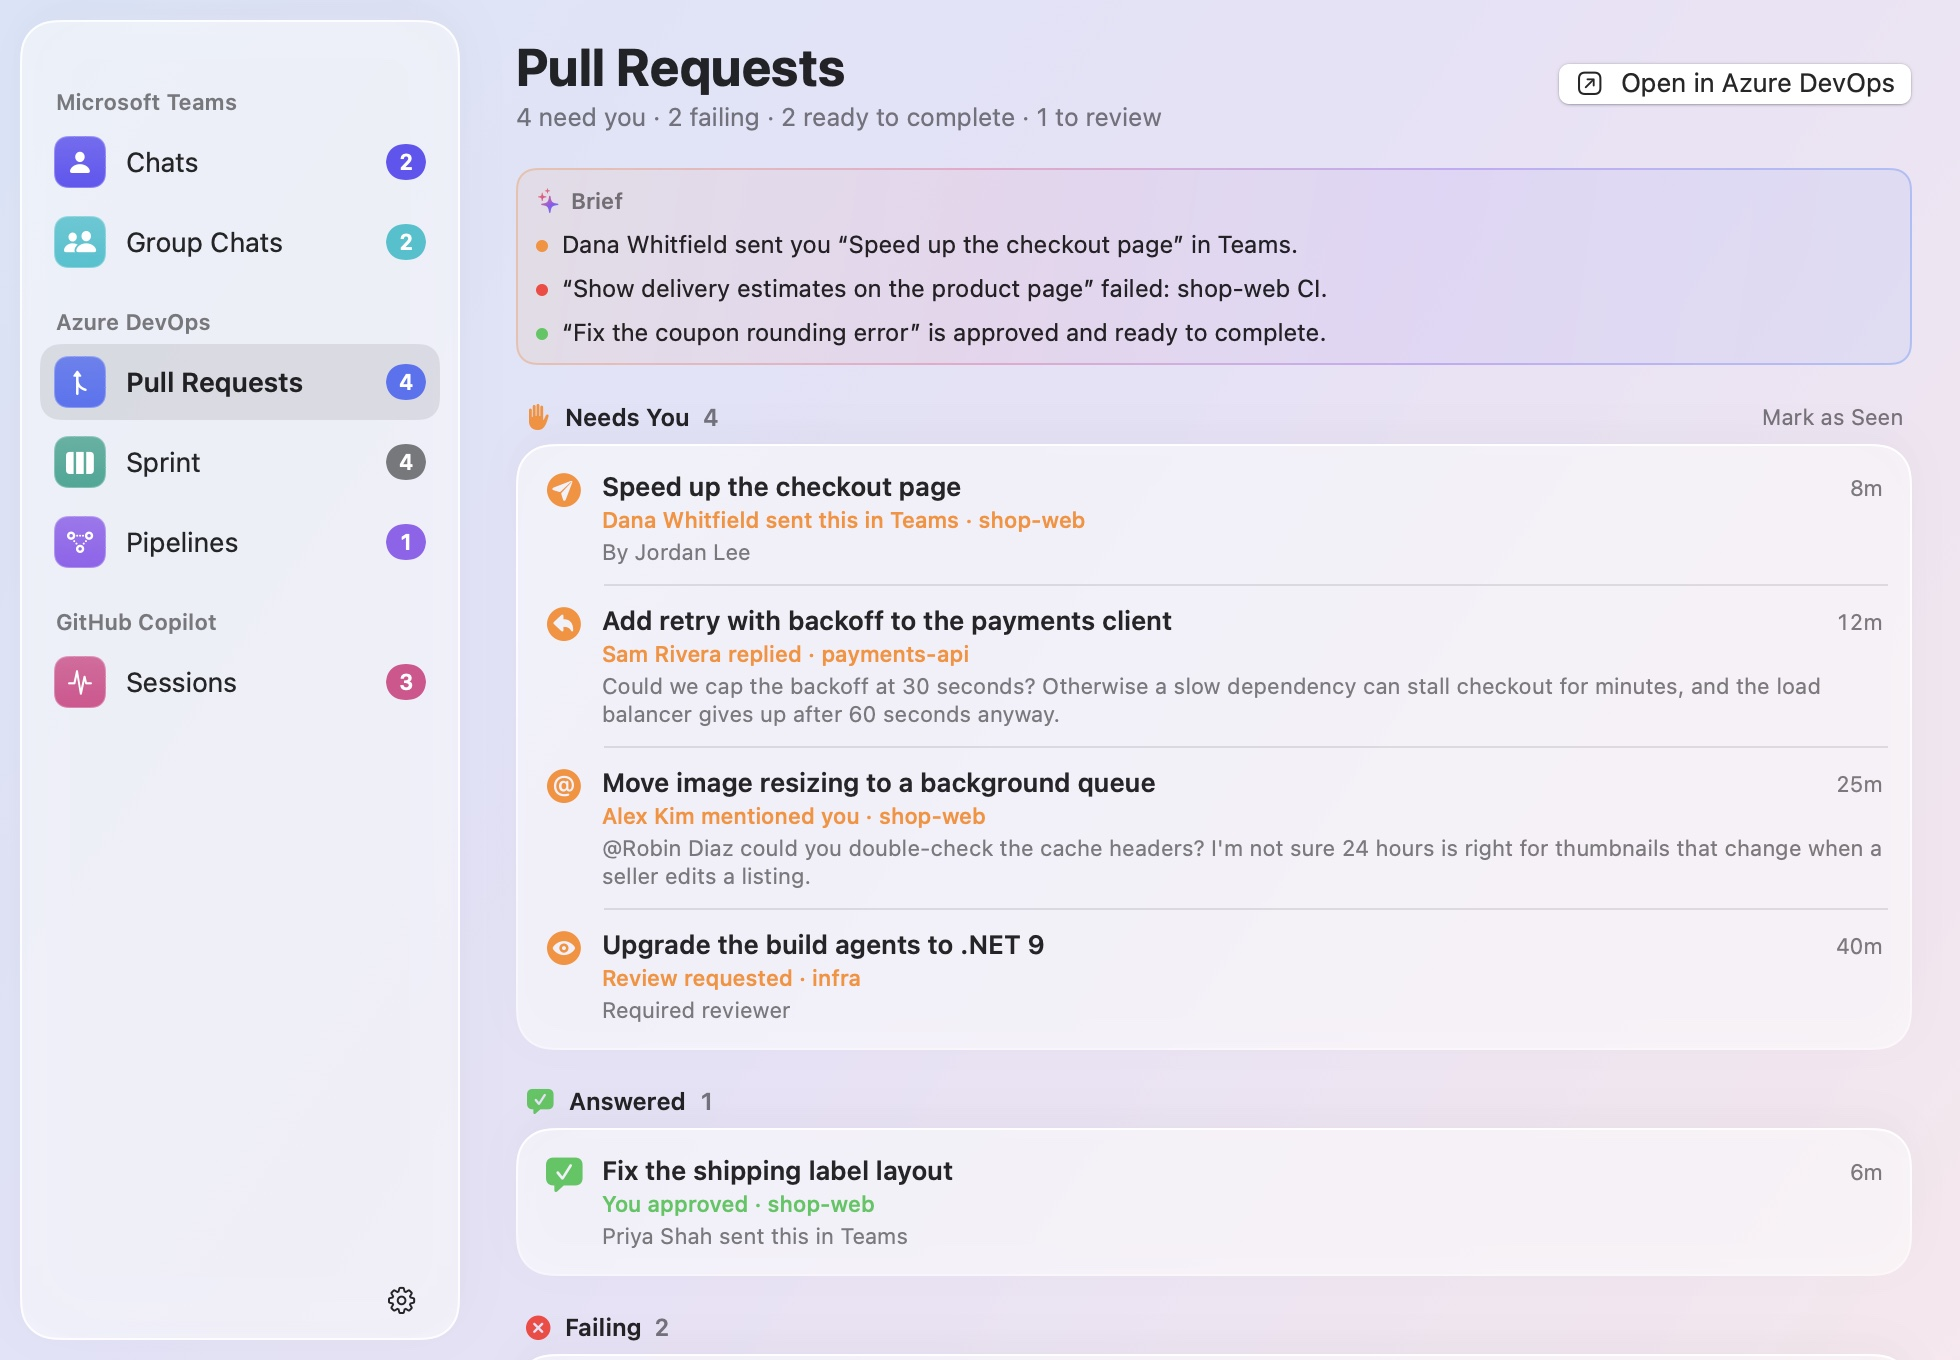
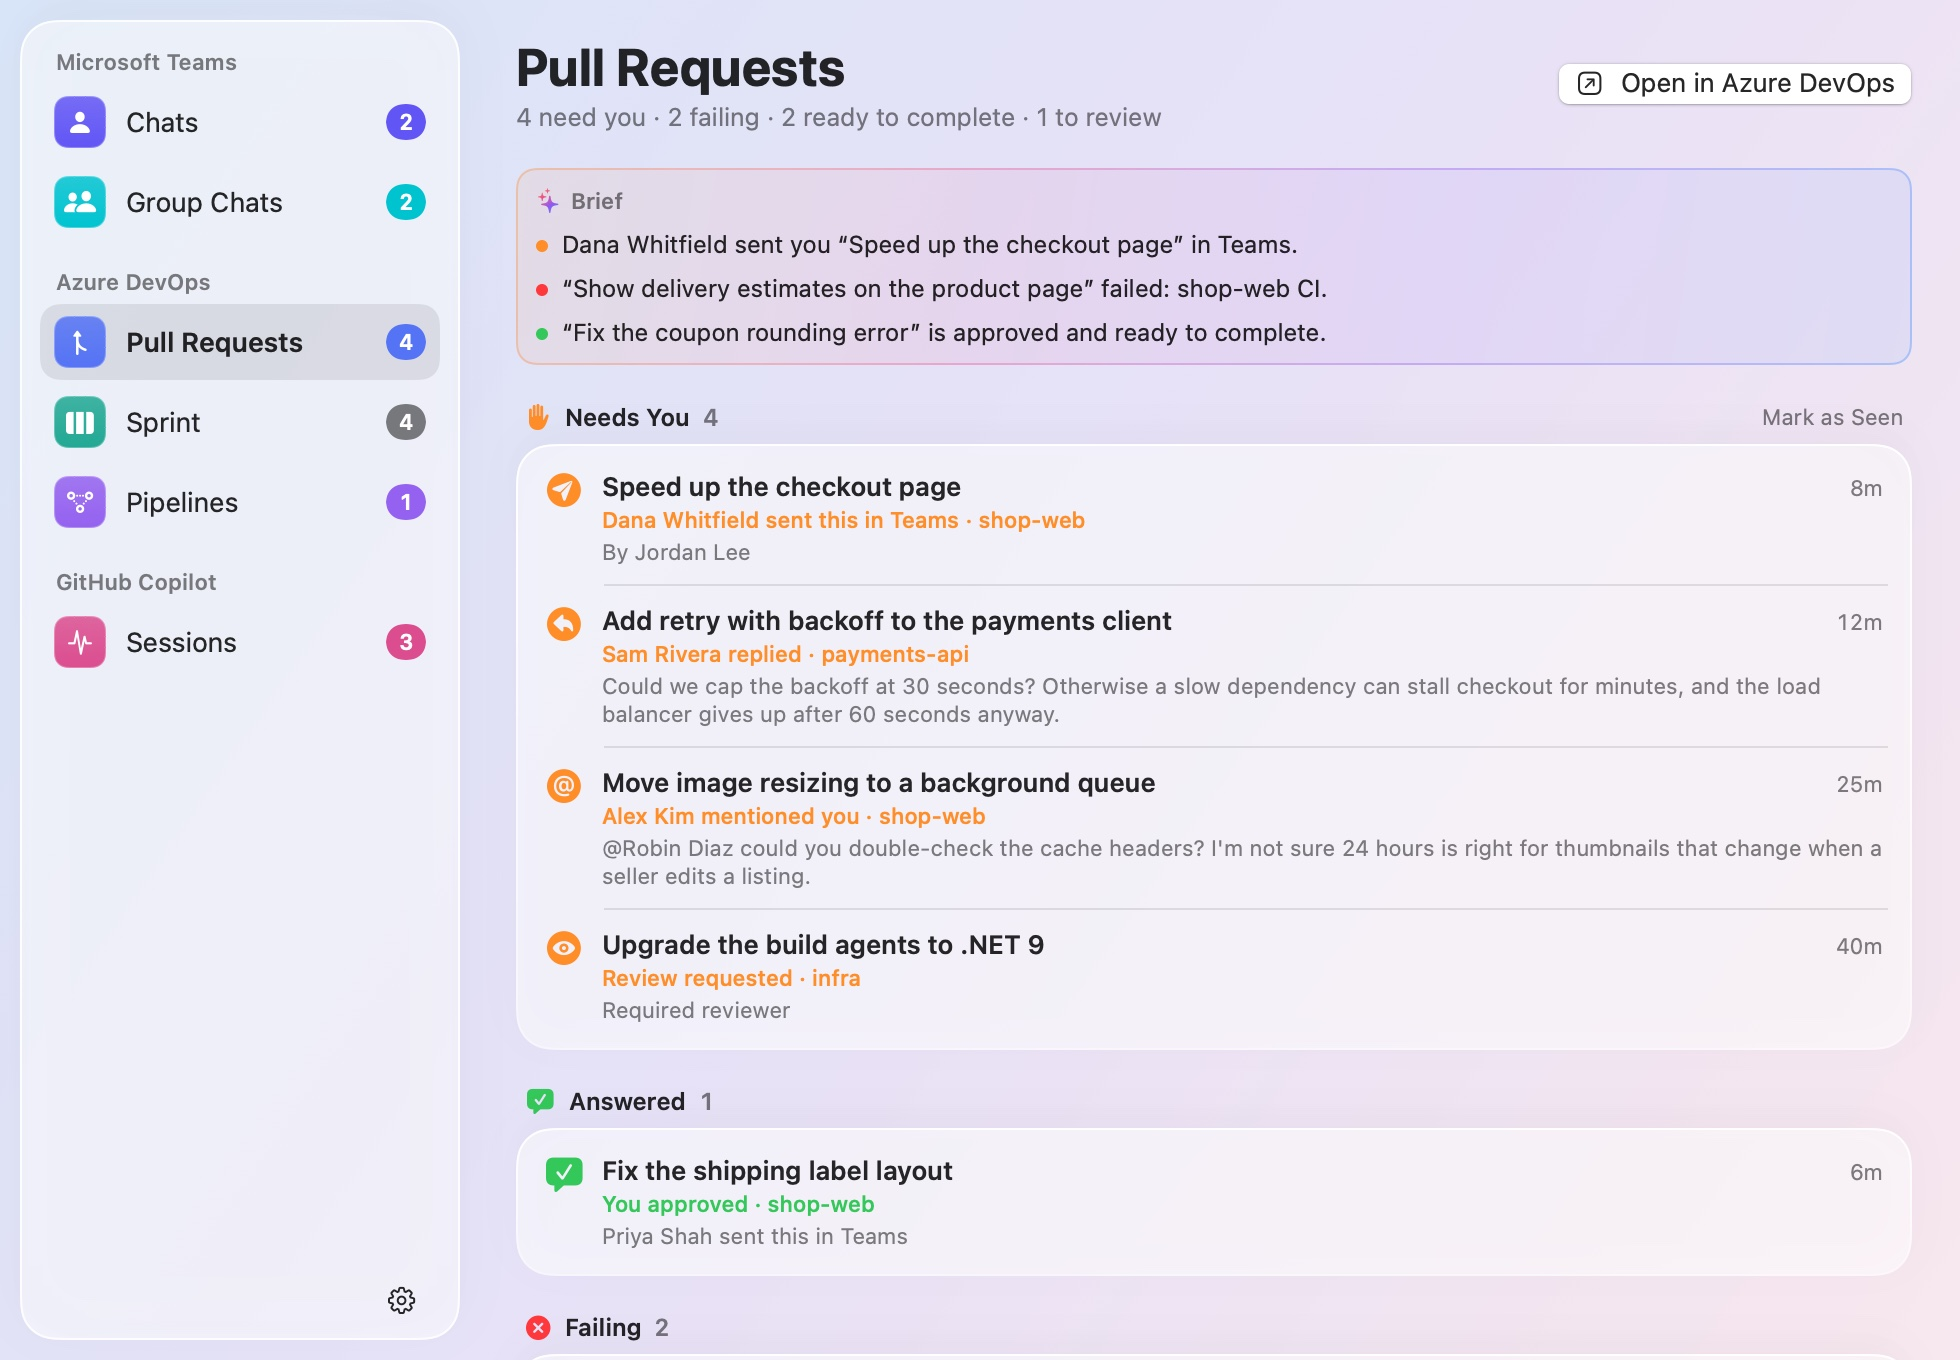
Give the window a title bar, as Settings has
The window's close, minimize and zoom buttons sat on the sidebar's top
corner, in room the sidebar kept for them under a transparent title
bar. The window now has a title bar of its own, with its title, as the
Settings window does, and the sidebar starts below it, as far from the
top as from the other edges.

The README's pictures of the window are drawn again, without that room.

diff --git a/Sources/BriefBar/Windows.swift b/Sources/BriefBar/Windows.swift
@@ -51,13 +51,12 @@ final class WindowHost: NSObject, NSWindowDelegate {
 
     private func makeWindow() -> NSWindow {
         let size = content.sections.count > 1 ? CGSize(width: 980, height: 700) : CGSize(width: 560, height: 700)
+        // A title bar of its own, as Settings has, so the window's buttons don't sit on the sidebar.
         let window = NSWindow(
             contentRect: NSRect(origin: .zero, size: size),
-            styleMask: [.titled, .closable, .miniaturizable, .resizable, .fullSizeContentView],
+            styleMask: [.titled, .closable, .miniaturizable, .resizable],
             backing: .buffered, defer: false
         )
-        window.titlebarAppearsTransparent = true
-        window.titleVisibility = .hidden
         window.isReleasedWhenClosed = false
         window.collectionBehavior.insert(.fullScreenPrimary)
         window.delegate = self
@@ -199,7 +198,6 @@ struct WindowView: View {
                     .frame(width: Self.sidebarWidth)
                     .floatingPanel(cornerRadius: 18)
                     .padding(Self.inset)
-                    .ignoresSafeArea(edges: .top)
             }
             // A page's lines stay readable on a wide window.
             page
@@ -242,10 +240,6 @@ struct WindowSidebar: View {
     var body: some View {
         let model = content.model
         VStack(alignment: .leading, spacing: 2) {
-            // Room for the window's buttons, which sit in the sidebar's corner.
-            Color.clear
-                .frame(height: 30)
-
             ScrollView {
                 VStack(alignment: .leading, spacing: 2) {
                     ForEach(Array(content.sections.enumerated()), id: \.element) { index, section in
@@ -293,6 +287,7 @@ struct WindowSidebar: View {
             .padding(.bottom, 12)
         }
         .padding(.horizontal, 10)
+        .padding(.top, 12)
         .frame(maxHeight: .infinity, alignment: .top)
     }
 }
